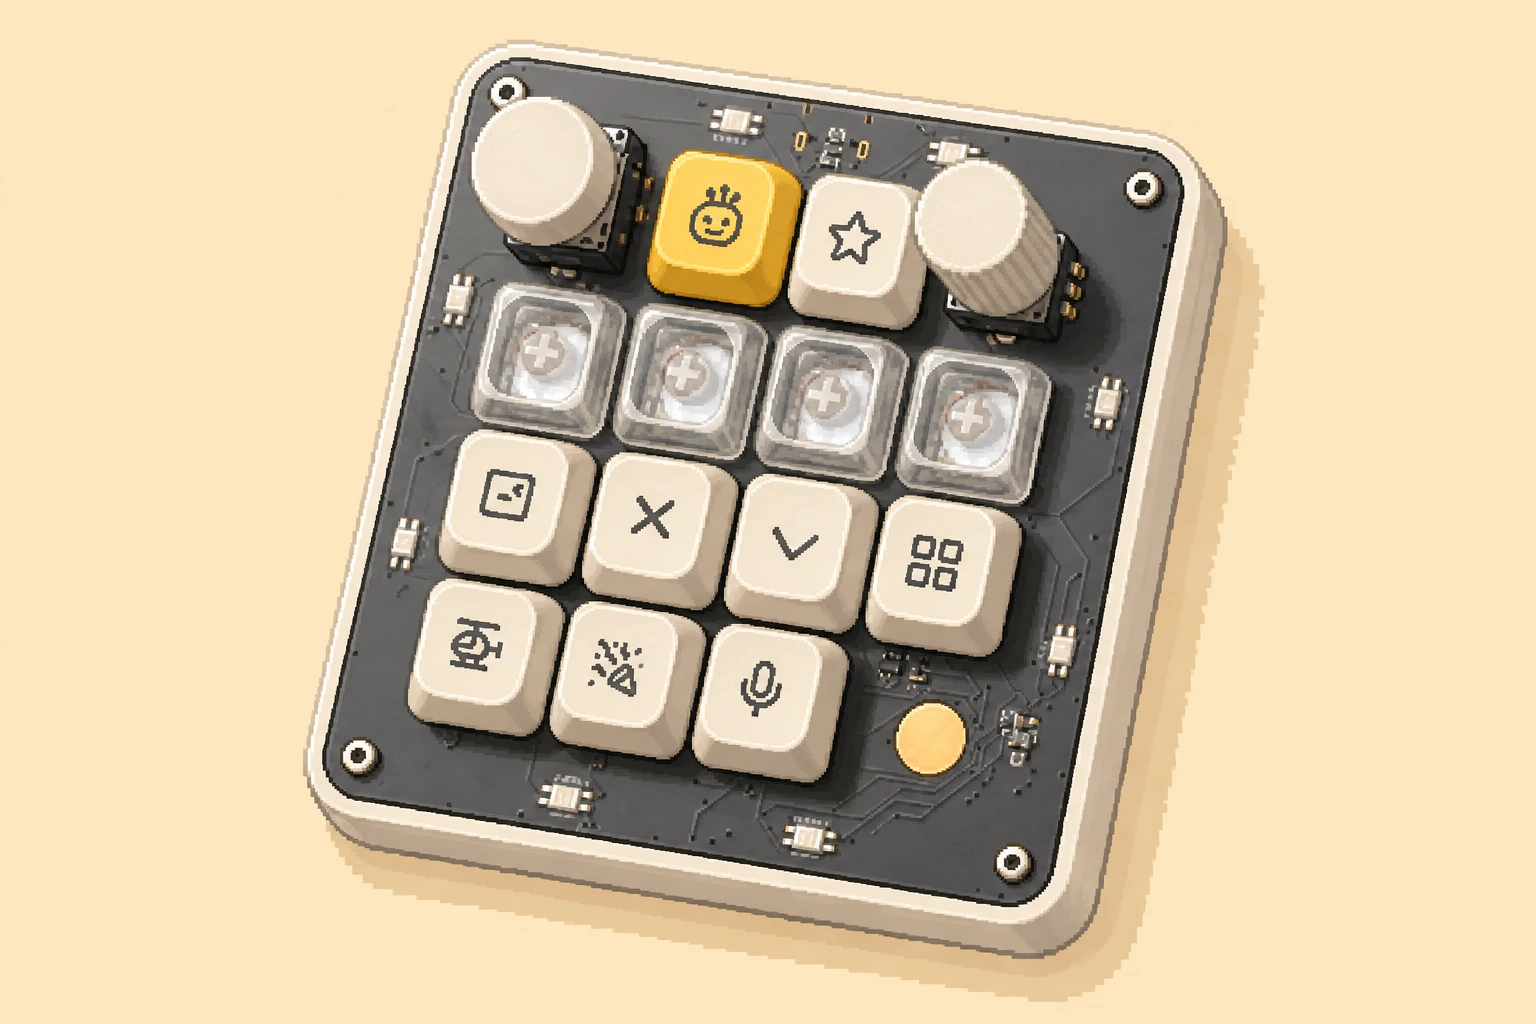
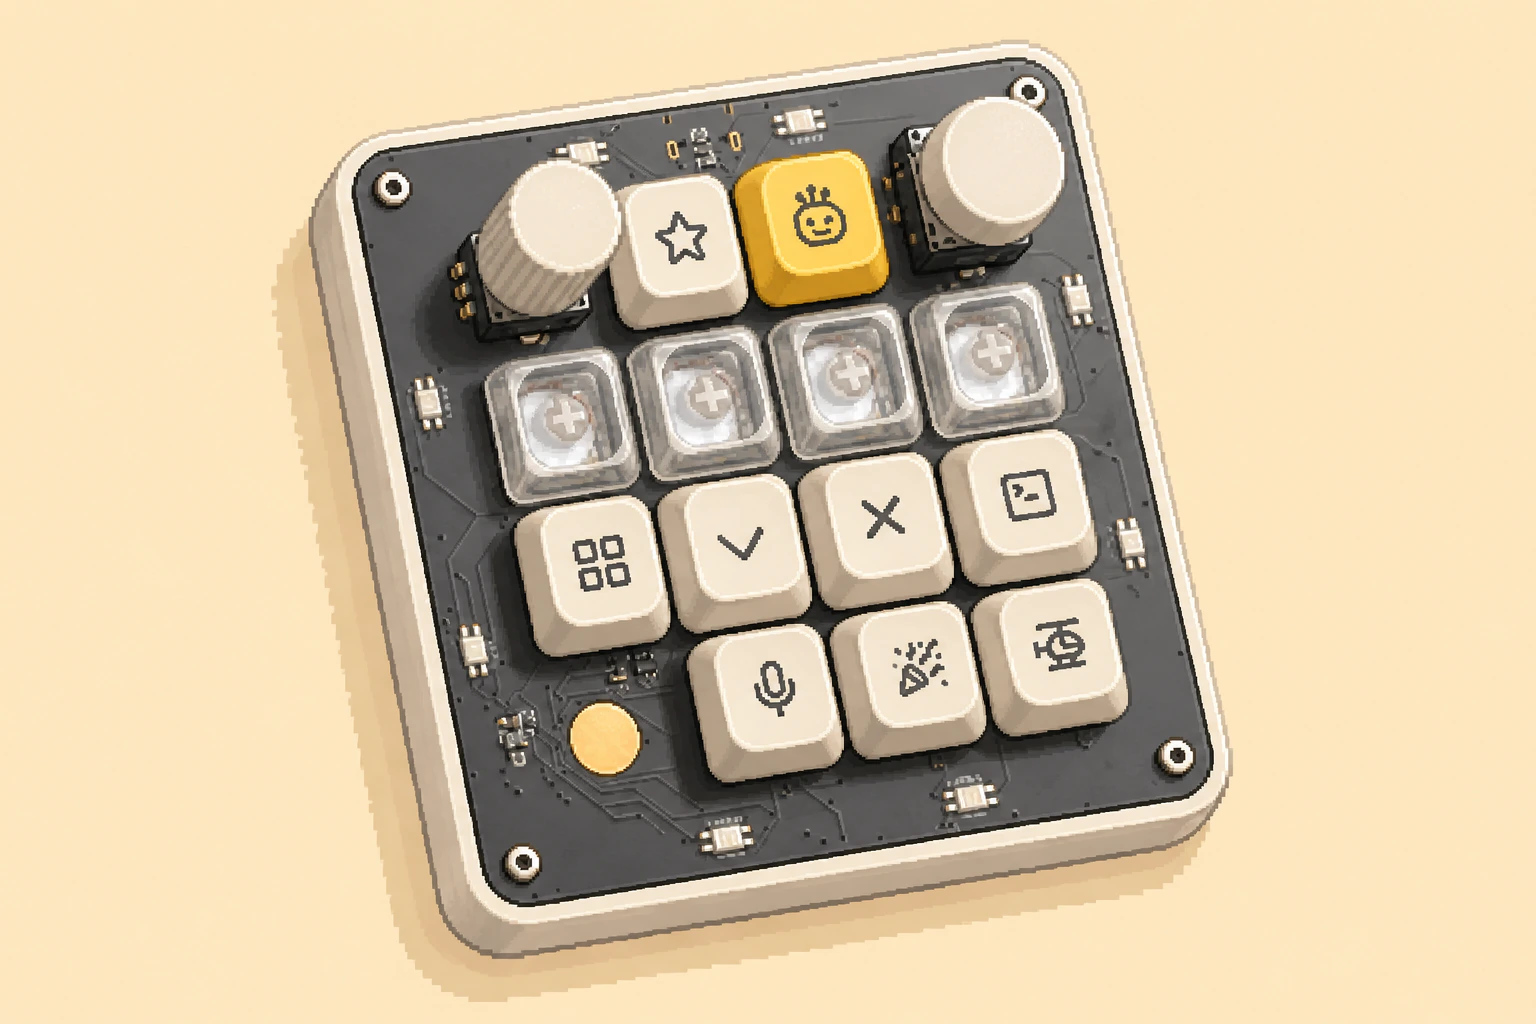
site: feature the studio product photo in The Real Thing
Swap the kitchen-table prototype shot for the new product photo (optimized,
EXIF-stripped copy as assets/product.jpg) with an updated caption and alt
text. The full-quality original is kept in-repo as source material but
excluded from deploys via .assetsignore. Also carries the refreshed hero
art dimensions.

diff --git a/site/public/index.html b/site/public/index.html
@@ -140,7 +140,7 @@
       <div class="hero__art-frame">
         <!-- stacked day/night images crossfaded by theme -->
         <img class="swap-img swap-img--day" src="/assets/hero_keyboard_day.webp" alt="Pixel-art illustration of the OpenMicroKbd macro pad in warm daylight" width="1536" height="1024" fetchpriority="high" />
-        <img class="swap-img swap-img--night" src="/assets/hero_keyboard_night.webp" alt="" aria-hidden="true" width="1248" height="832" />
+        <img class="swap-img swap-img--night" src="/assets/hero_keyboard_night.webp" alt="" aria-hidden="true" width="1536" height="1024" />
       </div>
       <span class="hero__art-shadow" aria-hidden="true"></span>
     </div>
@@ -587,11 +587,11 @@
     <div class="polaroid-wrap reveal">
       <figure class="polaroid">
         <div class="polaroid__win">
-          <img src="/assets/prototype.jpg" alt="Photo of the hand-built OpenMicroKbd prototype: black PCB, white 3D-printed case, red low-profile switches, a white knob and a yellow smiley keycap" width="1045" height="1568" loading="lazy" />
+          <img src="/assets/product.jpg" alt="The OpenMicroKbd on a white desk stand: dark PCB face in a white case, engraved keycaps, a knurled knob, a joystick, a yellow smiley key and a round gold touch pad" width="1042" height="1563" loading="lazy" />
         </div>
         <figcaption class="polaroid__cap">
-          <span class="polaroid__cap-title">PROTOTYPE #001</span>
-          <span class="polaroid__cap-body">Hand-soldered, 3D-printed, flashed on the kitchen table. Some keycaps are still naked, the knob is a placeholder, and the cable came out of a drawer. It works.</span>
+          <span class="polaroid__cap-title">THE CURRENT BUILD</span>
+          <span class="polaroid__cap-body">Hand-soldered and 3D-printed, same as day one — but the keycaps are engraved in-house now, the knob is real, and the happy key survived every revision. It works.</span>
         </figcaption>
       </figure>
 

diff --git a/site/README.md b/site/README.md
@@ -53,7 +53,7 @@ site/
     ├── js/theme-init.js      # sets the theme before first paint (no flash)
     ├── js/main.js            # theme toggle, scroll reveals, parallax, interactive replica, WebAudio blips
     ├── fonts/                # self-hosted Press Start 2P + VT323 (latin subsets, OFL)
-    ├── assets/               # WebP art (day/night pairs), prototype photo, og image, favicons
+    ├── assets/               # WebP art (day/night pairs), product photo, og image, favicons
     ├── _headers              # security headers (CSP etc.) + cache policy
     ├── robots.txt
     └── sitemap.xml
